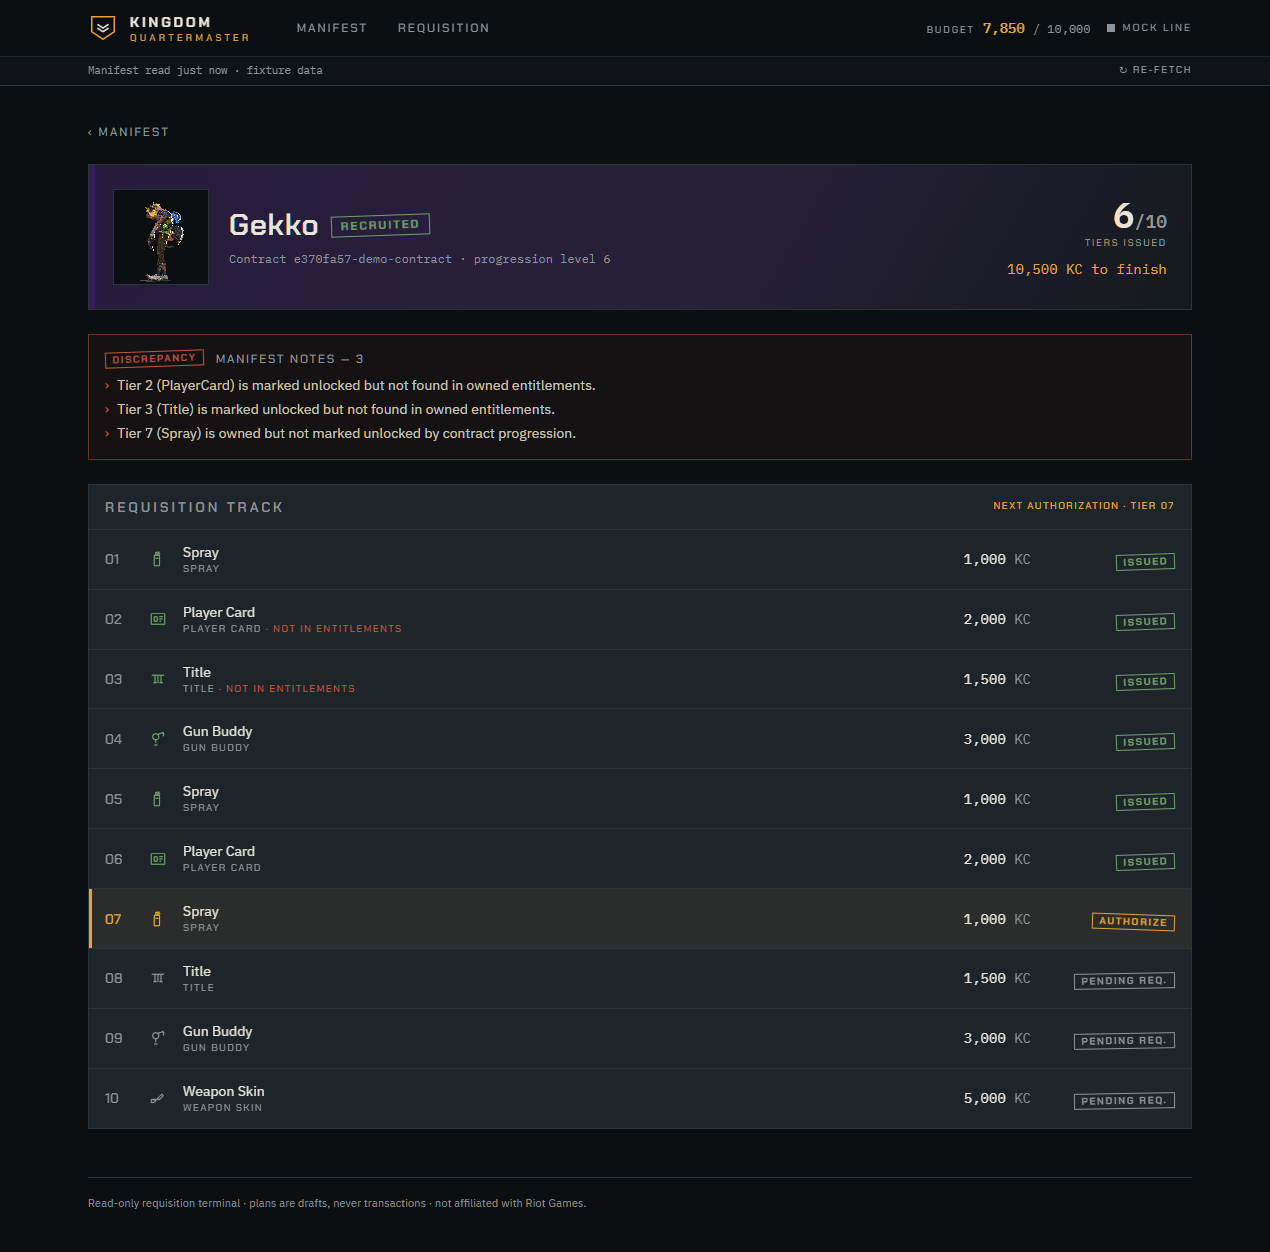
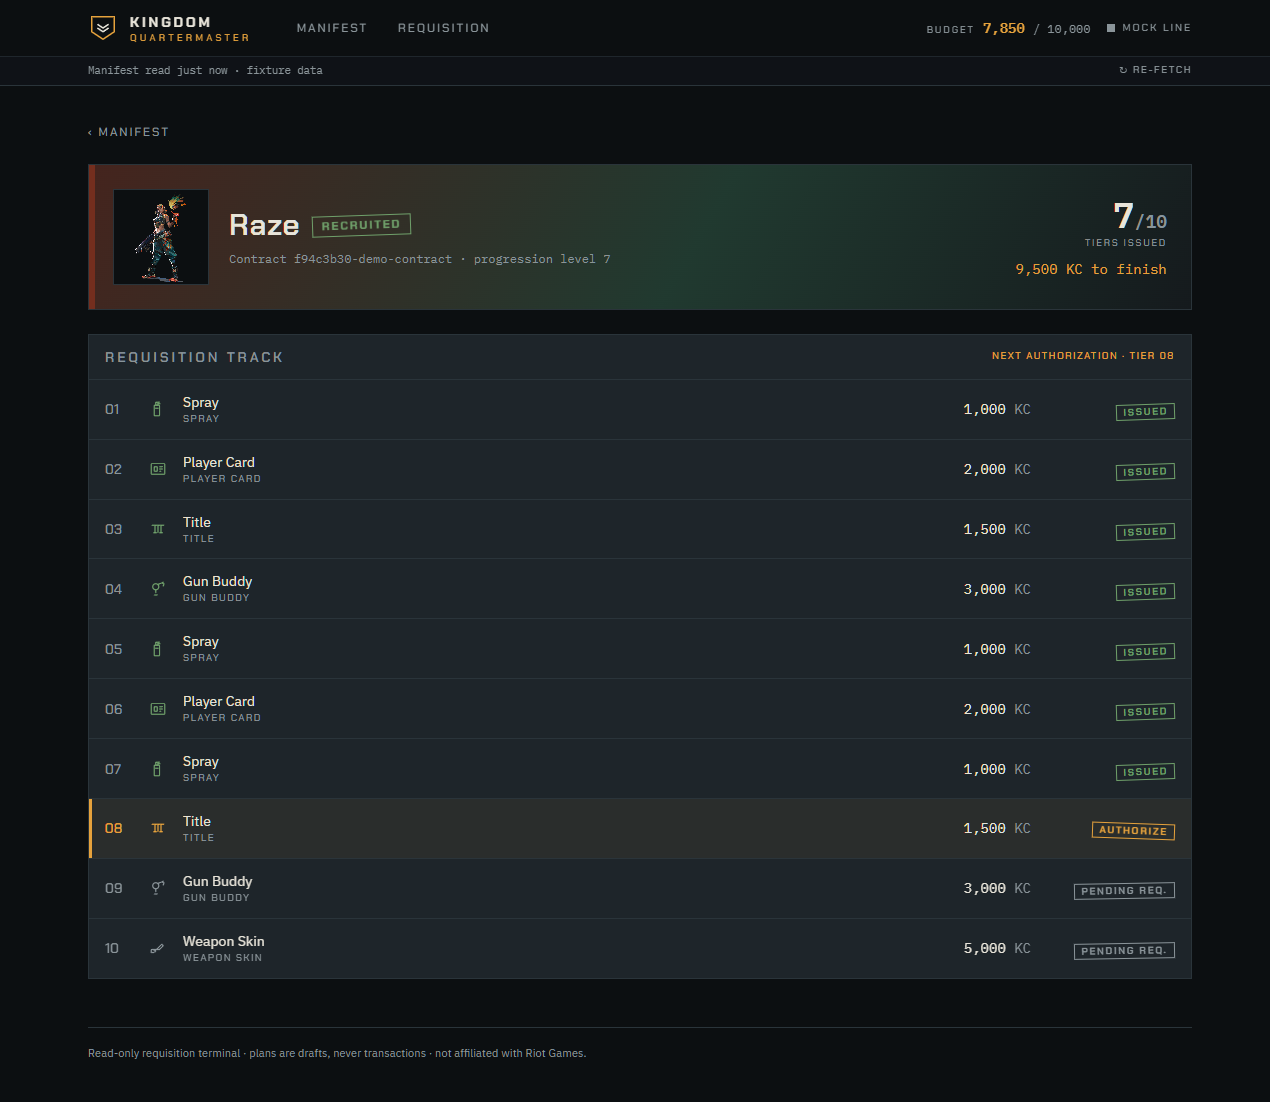
Rebuild README: clean, minimal, aligned layout
Replace the cramped screenshot table (unconstrained images, verbose
captions) with a centered single-column layout: a proportionate viewport
hero, consistent fixed-width images, one-line captions, and secondary
views collapsed under a "More views" details block. Trim prose, add
badges, and tighten every section for scannability.

Swap the primary agent-detail shot to a clean agent (Raze) so the gallery
doesn't read as errors; keep the discrepancy view as its own clearly
framed feature image.

diff --git a/README.md b/README.md
@@ -1,248 +1,173 @@
-# Kingdom Quartermaster
+<h1 align="center">Kingdom Quartermaster</h1>
 
-> *Kingdom Corporation keeps the ledger. The Quartermaster issues the gear.*
-
-A local, **read-only** CLI **and web UI** that tracks your VALORANT agent
-gear: which contract rewards you've already unlocked, which are still locked
-and what each remaining tier costs in Kingdom Credits (KC), and — given your
-current KC balance — which purchases give you the most value right now.
-
-[![CI](https://github.com/m4d4g4sk4r/Kingdom-QuarterMaster/actions/workflows/ci.yml/badge.svg)](https://github.com/m4d4g4sk4r/Kingdom-QuarterMaster/actions/workflows/ci.yml)
+<p align="center"><em>Kingdom Corporation keeps the ledger. The Quartermaster issues the gear.</em></p>
 
 <p align="center">
-  <img src="docs/screenshots/dashboard.png" alt="Kingdom Quartermaster — the requisition terminal dashboard" width="900">
+  <a href="https://github.com/m4d4g4sk4r/Kingdom-QuarterMaster/actions/workflows/ci.yml"><img src="https://github.com/m4d4g4sk4r/Kingdom-QuarterMaster/actions/workflows/ci.yml/badge.svg" alt="CI status"></a>
+  <img src="https://img.shields.io/badge/python-3.10%2B-blue" alt="Python 3.10+">
+  <img src="https://img.shields.io/badge/license-MIT-green" alt="MIT license">
+  <img src="https://img.shields.io/badge/access-read--only-orange" alt="Read-only">
 </p>
-<p align="center"><sub><code>kqm ui</code> — the requisition terminal: your operating budget, and every agent's gear contract on one manifest.</sub></p>
 
-> **This project is not endorsed by or affiliated with Riot Games. It uses
-> unofficial, undocumented client APIs, is read-only, and may stop working
-> after any game patch. Use at your own risk.**
+<p align="center">
+  A local, <strong>read-only</strong> tracker for your VALORANT agent gear — as a CLI
+  <em>and</em> a web UI. See which contract rewards you've unlocked, what the locked
+  tiers cost in Kingdom Credits (KC), and where your next credits are best spent.
+</p>
 
-## What it does
+<p align="center">
+  <img src="docs/screenshots/hero.png" width="840" alt="Kingdom Quartermaster dashboard — operating budget gauge and agent manifest">
+</p>
 
-- `kqm status` — summary of unlocked/locked tier counts per agent, current
-  KC balance, and any ownership discrepancies found.
-- `kqm unlocked` — every already-unlocked gear reward, per agent.
-- `kqm locked` — every not-yet-unlocked gear reward, per agent, with its KC
-  cost.
-- `kqm recommend` — greedy purchase plan that maximizes reward value per KC
-  spent, given your current balance and reward-type weights.
-- `kqm recommend --goal <name>` — cheapest path to fully unlock (and
-  recruit, if needed) one specific agent's gear.
-- `kqm ui` — opens a local, `127.0.0.1`-only **web UI** (the "Kingdom
-  Requisition Terminal") in your browser: a dashboard with your KC
-  authorization gauge and agent manifest, a per-agent contract track, and a
-  requisition planner with live priority weights and goal mode. Add `--mock`
-  to serve bundled fixture data, so you can try it without VALORANT running.
+> [!NOTE]
+> Not endorsed by or affiliated with Riot Games. It uses unofficial, undocumented
+> client APIs, is read-only, and may break after any game patch. Use at your own risk.
 
-It never purchases, activates, or modifies anything — every request it
-makes is an HTTP `GET`.
+## Features
 
-```
-          Agent Gear Status (example)
-  Agent     Recruited   Progress   Locked KC remaining
-  Gekko     yes         7/10       27,500
-  Jett      yes         10/10      0
-  Vyse      no          0/10       8,000 + 46,000
+- **Read-only, always.** Every request is an HTTP `GET`; it never buys, activates, or edits anything.
+- **No credentials.** Authenticates against the local Riot Client via its lockfile — no username or password, ever.
+- **Two front-ends, one core.** A `rich` CLI and a local web UI share the same data path.
+- **Best-value planning.** Greedy recommendations by value-per-credit, plus a goal mode that costs out a full agent unlock.
+- **Try it without VALORANT.** `--mock` serves a bundled demo roster, so you can look around with nothing installed.
 
-  Kingdom Credits balance: 9,200 / 10,000
-  ! You're near the KC cap — earnings past 10,000 are wasted.
-```
+## Screenshots
 
-## The requisition terminal
+<p align="center">
+  <img src="docs/screenshots/agent-detail.png" width="820" alt="Agent detail — the ten-tier requisition track">
+</p>
+<p align="center"><sub><b>Agent detail</b> — the contract as a ten-tier track: issued, the one tier cleared to authorize next, then pending.</sub></p>
 
-The web UI (`kqm ui`) is styled as an in-world Kingdom Corporation supply
-depot: the chrome stays a disciplined gunmetal grey, and colour enters only
-where an agent does. Everything is read-only — plans are drafted, never
-purchased. (Screenshots below use `kqm ui --mock`, so no VALORANT is
-needed to look around.)
+<p align="center">
+  <img src="docs/screenshots/planner-best-value.png" width="820" alt="Requisition planner — best-value draft">
+</p>
+<p align="center"><sub><b>Requisition planner</b> — a best-value draft with the running balance drawn down line by line. Weights re-draft it live.</sub></p>
 
-<table>
-  <tr>
-    <td width="50%" valign="top">
-      <a href="docs/screenshots/agent-detail.png"><img src="docs/screenshots/agent-detail.png" alt="Agent detail — the 10-tier requisition track"></a>
-      <p><b>Agent detail.</b> The contract as a ten-tier requisition track:
-      what's been <em>issued</em>, the single tier cleared for
-      <em>authorization</em> next, and what's still <em>pending</em> — with
-      ownership discrepancies flagged as manifest notes.</p>
-    </td>
-    <td width="50%" valign="top">
-      <a href="docs/screenshots/planner-best-value.png"><img src="docs/screenshots/planner-best-value.png" alt="Requisition planner — best value"></a>
-      <p><b>Best-value planner.</b> A draft requisition ordered by value per
-      credit, with the running balance drawn down line by line. Tune the
-      priority weights and it re-drafts live.</p>
-    </td>
-  </tr>
-  <tr>
-    <td width="50%" valign="top">
-      <a href="docs/screenshots/planner-goal.png"><img src="docs/screenshots/planner-goal.png" alt="Requisition planner — goal mode"></a>
-      <p><b>Goal mode.</b> Cost out a single agent's full unlock: total to
-      finish, what's affordable now, the shortfall, and whether they still
-      need recruiting.</p>
-    </td>
-    <td width="50%" valign="top">
-      <a href="docs/screenshots/filter-not-recruited.png"><img src="docs/screenshots/filter-not-recruited.png" alt="Manifest filtered to not-recruited agents"></a>
-      <p><b>Filter the manifest.</b> Sort by closest-to-done or most locked
-      value, or filter down to just the agents you haven't recruited yet.</p>
-    </td>
-  </tr>
-  <tr>
-    <td width="50%" valign="top">
-      <a href="docs/screenshots/offline-state.png"><img src="docs/screenshots/offline-state.png" alt="Offline state — the line is severed"></a>
-      <p><b>Every state has a home.</b> When VALORANT isn't running or the
-      line drops, you get a clear, in-character screen telling you exactly
-      what to do — never a blank page or a raw stack trace.</p>
-    </td>
-    <td width="50%" valign="top">
-      <br>
-      <p>The full design direction — palette, type, the "colour only where an
-      agent does" rule — is written up in
-      <a href="frontend/DESIGN_BRIEF.md">frontend/DESIGN_BRIEF.md</a>.</p>
-    </td>
-  </tr>
-</table>
+<details>
+<summary><b>More views</b></summary>
 
-## Requirements
+<p align="center">
+  <img src="docs/screenshots/dashboard.png" width="820" alt="Full agent manifest grid">
+</p>
+<p align="center"><sub>The full manifest — sort by closest-to-done or most locked value.</sub></p>
 
-- The **Riot Client** (or VALORANT) must be **running** on the same
-  machine — it never asks for your username or password, and never talks
-  to any remote Riot login server. See [docs/ARCHITECTURE.md](docs/ARCHITECTURE.md)
-  for exactly how that works.
-- Windows is the primary supported platform.
-- Python 3.10+
+<p align="center">
+  <img src="docs/screenshots/planner-goal.png" width="820" alt="Requisition planner — goal mode for one agent">
+</p>
+<p align="center"><sub>Goal mode — total to finish, what's affordable now, and the shortfall for one agent.</sub></p>
+
+<p align="center">
+  <img src="docs/screenshots/filter-not-recruited.png" width="820" alt="Manifest filtered to not-recruited agents">
+</p>
+<p align="center"><sub>Filter down to the agents you haven't recruited yet.</sub></p>
+
+<p align="center">
+  <img src="docs/screenshots/discrepancy.png" width="820" alt="Agent detail flagging ownership discrepancies">
+</p>
+<p align="center"><sub>Discrepancy notes — when contract progression and your entitlements disagree (usually an unverifiable reward, not an account problem).</sub></p>
+
+<p align="center">
+  <img src="docs/screenshots/offline-state.png" width="820" alt="Offline state — the line is severed">
+</p>
+<p align="center"><sub>Every failure has a clear, in-character screen — never a blank page or a stack trace.</sub></p>
+
+</details>
 
 ## Install
 
-Use a virtual environment so the pinned dependency versions in
-`pyproject.toml` are what actually get installed:
+Use a virtual environment so the pinned versions in `pyproject.toml` are what get installed:
 
 ```bash
 py -3 -m venv .venv
-./.venv/Scripts/activate     # Windows; use `source .venv/bin/activate` on macOS/Linux
-pip install -e .
+./.venv/Scripts/activate      # Windows — use `source .venv/bin/activate` on macOS/Linux
+pip install -e .              # add the web UI:  pip install -e ".[ui]"
 ```
 
-This installs the `kqm` command. For the local web UI (`kqm ui`), install
-the extra dependencies too: `pip install -e ".[ui]"`.
+VALORANT (or the Riot Client) must be **running and logged in** on the same machine.
+Windows is the primary supported platform; Python 3.10+.
 
-## Run
+## Usage
 
 ```bash
-kqm status
-kqm locked
-kqm unlocked
-kqm recommend
-kqm recommend --goal Gekko
-kqm recommend --weight buddy=10 --weight spray=0
-kqm ui                # opens http://127.0.0.1:8420, live data
-kqm ui --mock         # same, but with fixture data — no VALORANT required
+kqm status                    # unlocked/locked counts, KC balance, discrepancies
+kqm locked                    # every locked reward, per agent, with KC cost
+kqm unlocked                  # every already-unlocked reward
+kqm recommend                 # best-value purchase plan for your balance
+kqm recommend --goal Gekko    # cheapest path to fully unlock one agent
+kqm ui                        # open the web UI at http://127.0.0.1:8420
+kqm ui --mock                 # …with a demo roster, no VALORANT needed
 ```
 
-The UI is a bundled static build served by the same process, so `kqm ui`
-needs no Node at runtime. It also serves interactive API docs at `/docs`
-(Swagger UI) and `/redoc`.
-
-### Developing the web UI
-
-The frontend lives in `frontend/` (Vite + React + TypeScript + Tailwind).
-Node is only needed to *build* it, never to run it.
-
-```bash
-cd frontend
-npm install
-npm run dev     # Vite dev server on :5173, proxies /api to 127.0.0.1:8420
-# in another terminal, from the repo root:
-kqm ui --mock   # serves the API the dev server proxies to
-```
-
-To refresh the bundle that `kqm ui` serves:
-
-```bash
-cd frontend && npm run build   # outputs to src/kqm/webui/
-```
-
-The design direction is documented in
-[frontend/DESIGN_BRIEF.md](frontend/DESIGN_BRIEF.md).
-
-If shard/region auto-detection fails, pass it explicitly:
-
-```bash
-kqm --shard na status
-```
-
-Static game data is cached on disk per game version; force a refetch with
-`--refresh-static` if something looks stale.
+Pass `--shard na` if region auto-detection fails, and `--refresh-static` to rebuild
+the on-disk game-data cache. The web UI also serves API docs at `/docs`.
 
 ## Configuration
 
-A JSON config file at the platform's standard user-config directory
-(e.g. `%APPDATA%\kingdom-quartermaster\config.json` on Windows) can set:
+Optional JSON at your platform config dir (e.g. `%APPDATA%\kingdom-quartermaster\config.json`):
 
 ```json
 {
   "shard": "na",
-  "reward_weights": { "buddy": 5, "playercard": 4, "title": 2, "spray": 1 },
+  "reward_weights": { "buddy": 5, "playercard": 4, "skin": 3, "title": 2, "spray": 1 },
   "agent_recruit_cost_kc": 8000
 }
 ```
 
-Default reward-type weights: `buddy=5, playercard=4, skin=3, title=2,
-spray=1`. Higher weight = that reward type is worth more to you, and the
-recommender ranks tiers by `weight / KC cost`. Per-run overrides:
-`--weight kind=value` (repeatable).
+Higher weight = worth more to you; the planner ranks tiers by `weight / KC cost`.
+Override per run with `--weight kind=value` (repeatable). No token, password, or
+username is ever written to disk — only the game-data cache and these preferences.
 
-No token, password, or username is ever written to this file or any other
-file on disk — only static game-data cache and these preferences.
+## How it works
 
-## Architecture
+Authentication is lockfile-only against the local Riot Client. The only network
+destinations are Riot's own local/player endpoints and [valorant-api.com](https://valorant-api.com/)
+(public static game data). No telemetry, no remote login.
 
 ```
 src/kqm/
   __main__.py     CLI entry (status, locked, unlocked, recommend, ui)
   auth.py         lockfile discovery, local token fetch, shard detection
-  riot_client.py  GET-only pd.pvp.net client, 401-retry-once
-  static_data.py  valorant-api.com fetch + on-disk cache (by client version)
+  riot_client.py  GET-only pd.pvp.net client
+  static_data.py  valorant-api.com fetch + on-disk cache
   reconcile.py    pure: live progression + static tiers -> per-agent model
   recommend.py    pure: greedy plan / goal-mode plan
-  render.py       rich tables
-  service.py      fetch_snapshot() - shared orchestration for CLI + web API,
-                   with a --mock mode backed by tests/fixtures/
-  webapp.py       127.0.0.1-only FastAPI app (GET-only) used by `kqm ui`;
-                   serves the built SPA + JSON API on one origin
-  webui/          built web UI (generated by `frontend` build; package data)
-frontend/            Vite + React + Tailwind source for the web UI (dev/build only)
-tests/               unit tests for reconcile.py, recommend.py, service.py and
-                     webapp.py, fixture-based, no network
+  service.py      fetch_snapshot() — one orchestration path for CLI + web API
+  webapp.py       127.0.0.1-only FastAPI app; serves the built SPA + JSON API
+  webui/          built web UI (shipped as package data)
+frontend/         Vite + React + Tailwind source (dev/build only)
 ```
 
-See [docs/ARCHITECTURE.md](docs/ARCHITECTURE.md) for how local auth works
-and notes on the undocumented Riot API this tool depends on.
+See [docs/ARCHITECTURE.md](docs/ARCHITECTURE.md) for the local-auth details and notes
+on the undocumented Riot API.
 
-## Testing
+## Development
 
 ```bash
-py -3 -m venv .venv
-./.venv/Scripts/activate     # Windows; use `source .venv/bin/activate` on macOS/Linux
-pip install -e ".[dev]"
-pytest
+pip install -e ".[dev]"       # ruff + pytest
+pytest                        # fixture-based, no network access required
 ```
 
-`reconcile.py` and `recommend.py` are pure functions with no I/O, tested
-entirely against hand-crafted fixture JSON in `tests/fixtures/` — no
-network access is used or required to run the test suite.
+The web UI lives in `frontend/` (Vite + React + TypeScript + Tailwind); Node is only
+needed to build it, never to run it.
 
-## Hard constraints this tool follows
+```bash
+cd frontend && npm install
+npm run dev                   # Vite on :5173, proxies /api to kqm ui --mock
+npm run build                 # rebuild the bundle into src/kqm/webui/
+```
 
-- Read-only: no purchase, activate-contract, or any `POST`/`PUT` to any
-  Riot player endpoint exists anywhere in this codebase.
-- No username/password handling anywhere — lockfile auth only.
-- No telemetry or analytics. The only network destinations are Riot's own
-  local/player endpoints and valorant-api.com.
+The design direction is documented in [frontend/DESIGN_BRIEF.md](frontend/DESIGN_BRIEF.md).
+
+## Read-only guarantees
+
+- No purchase, activate-contract, or any `POST`/`PUT` to a Riot player endpoint exists
+  anywhere in this codebase — not even a disabled button in the UI. Plans are shopping lists.
+- No username/password handling — lockfile auth only.
+- No telemetry or analytics.
 
 ## Credits
 
 - [valorant-api.com](https://valorant-api.com/) — public static game data.
-- [valapidocs.techchrism.me](https://valapidocs.techchrism.me/) — community
-  documentation of the unofficial client API.
+- [valapidocs.techchrism.me](https://valapidocs.techchrism.me/) — community docs for the unofficial client API.
 
 MIT licensed. Not a Riot Games product.